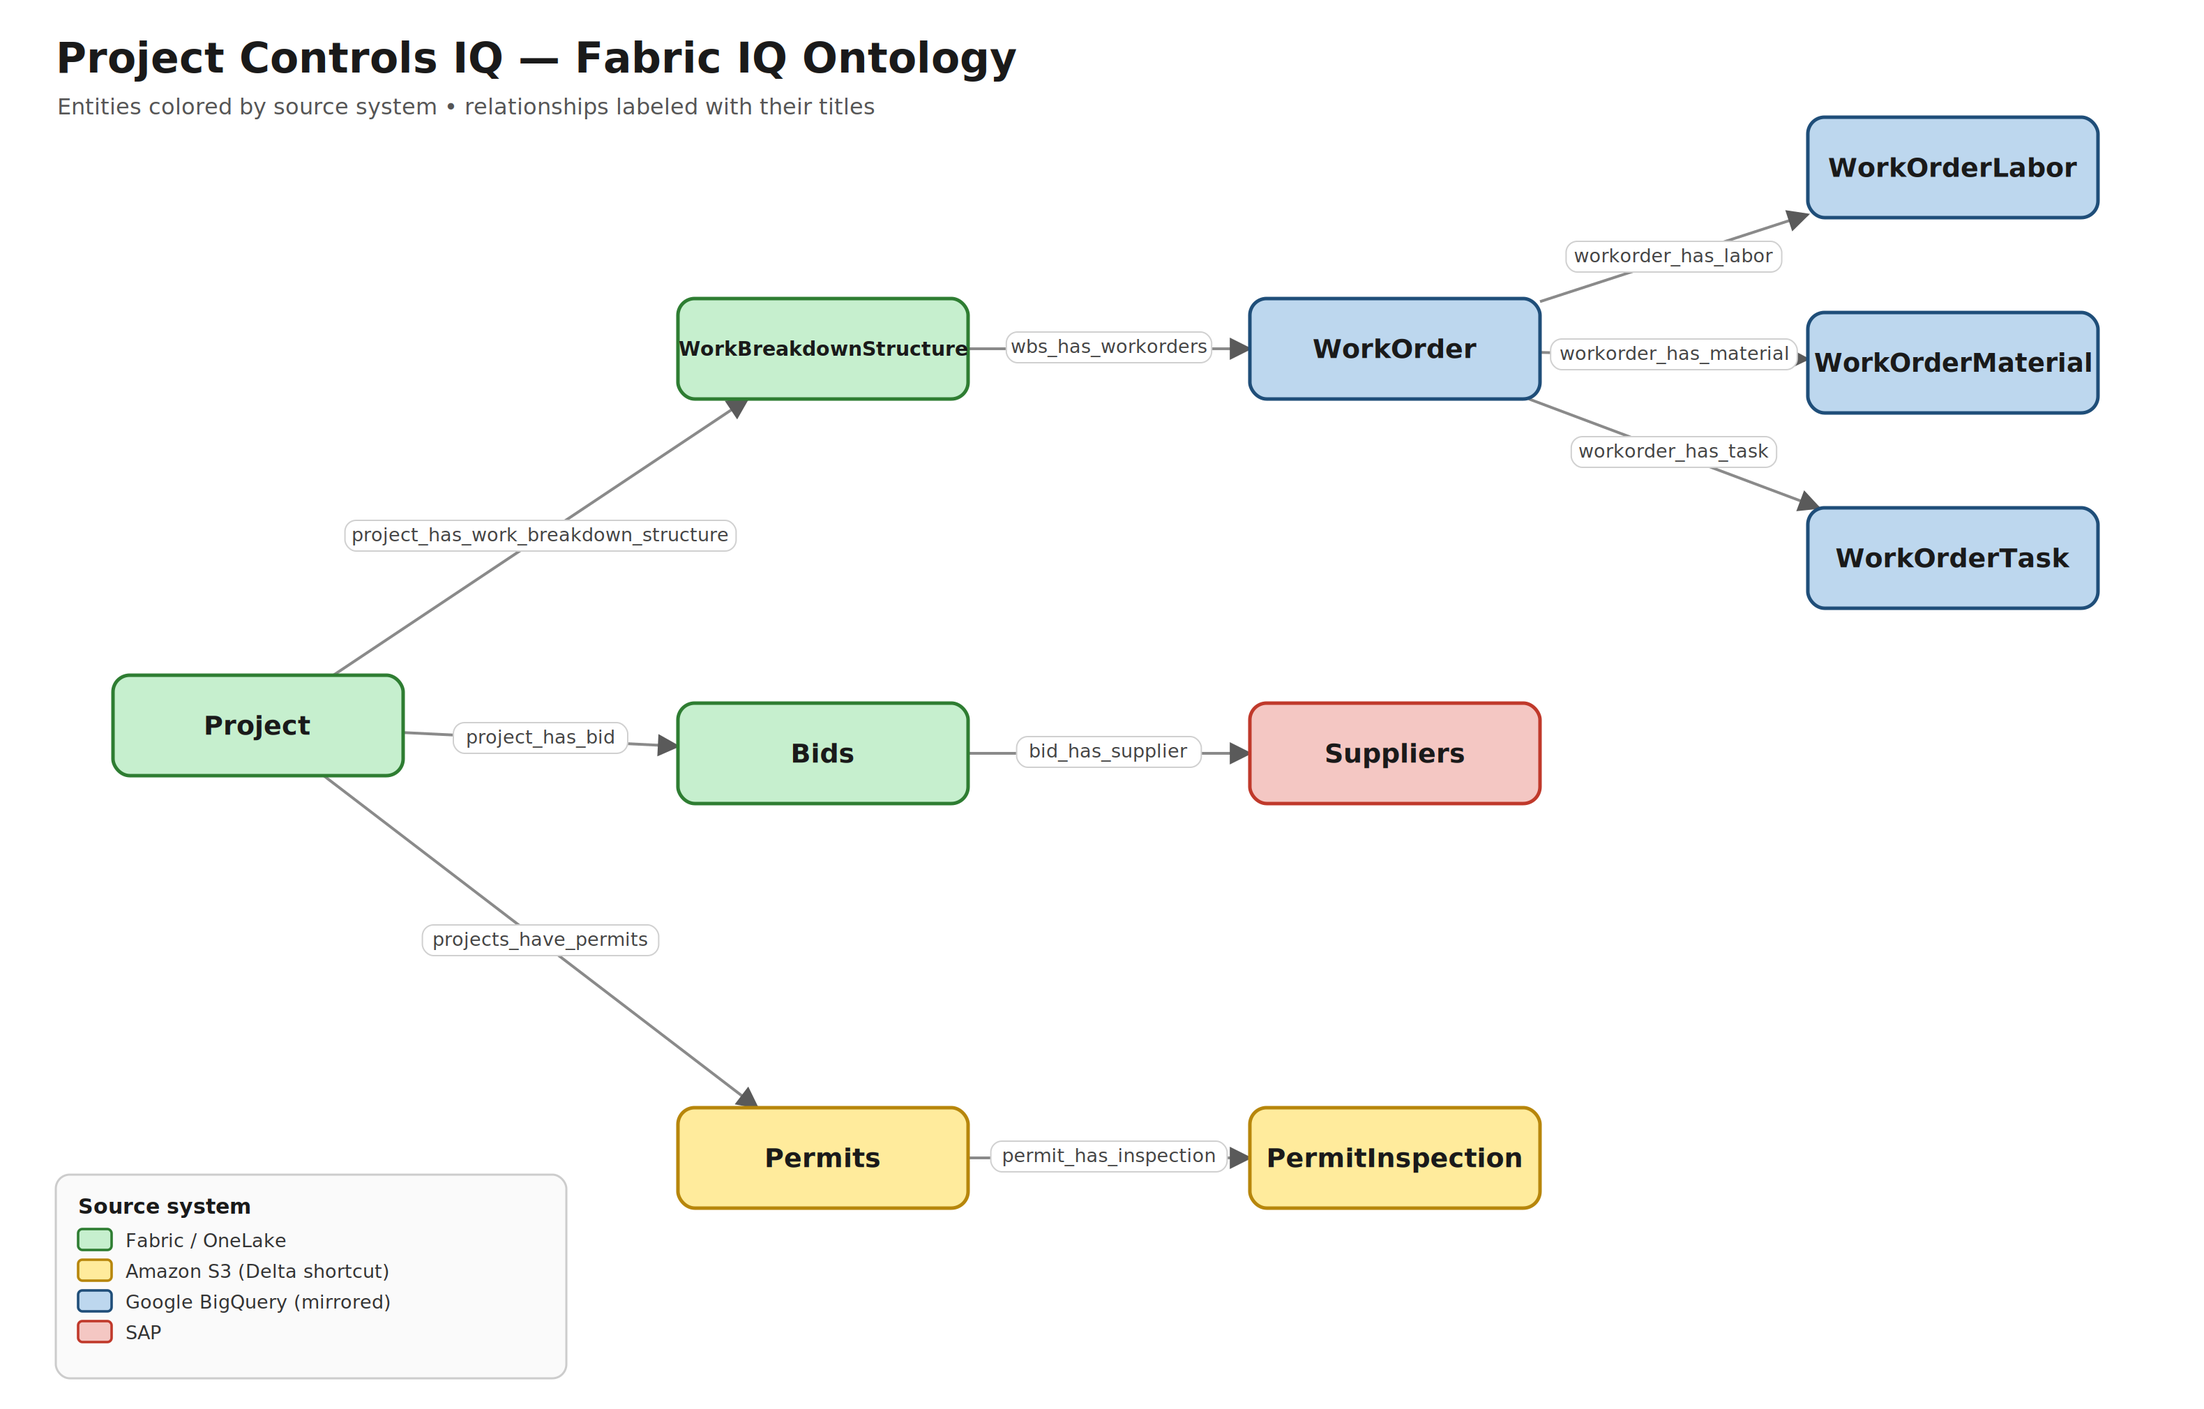
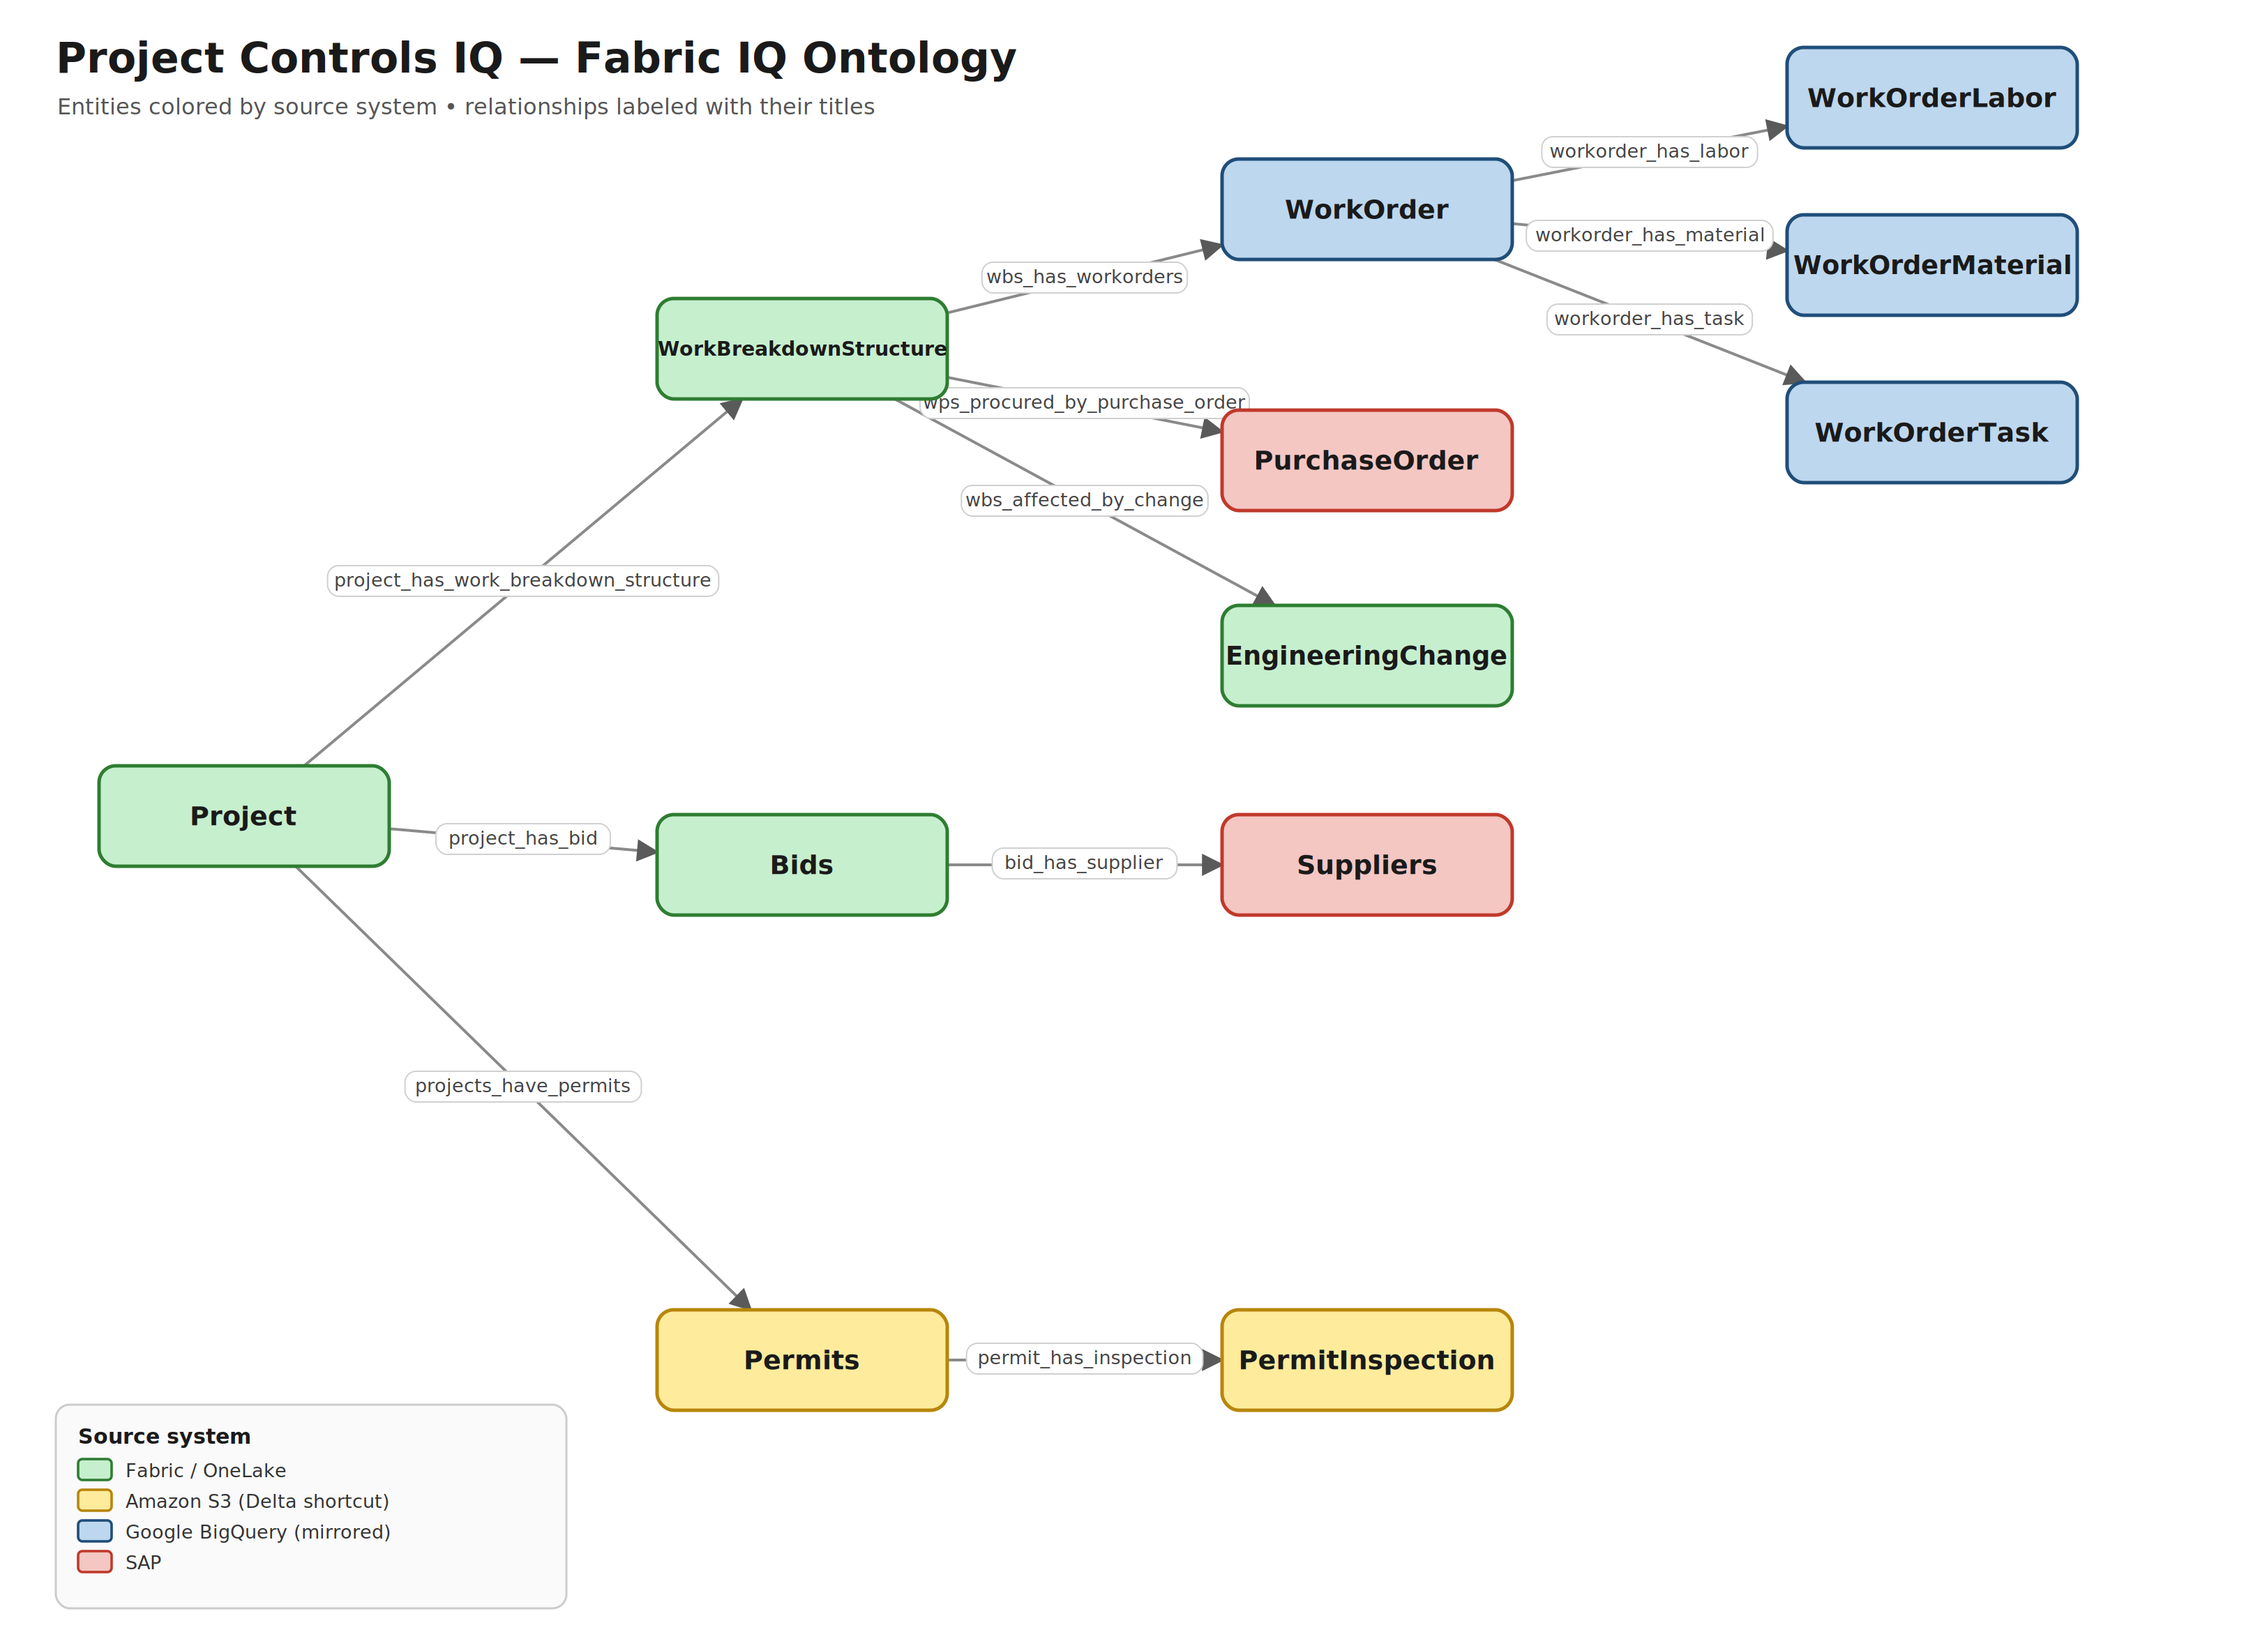
Add PurchaseOrder + EngineeringChange to ontology diagram
Reflect the two entities newly materialized in EPCOntology. PurchaseOrder is
color-coded SAP (red); EngineeringChange is Fabric/OneLake (green, non-SAP
engineering-change log). Both fan off WorkBreakdownStructure via their actual
relationship titles: wps_procured_by_purchase_order and wbs_affected_by_change.
Reflowed the layout and enlarged the canvas to fit the new nodes cleanly.

diff --git a/docs/diagrams/generate_ontology_diagram.py b/docs/diagrams/generate_ontology_diagram.py
@@ -26,16 +26,18 @@ HW, HH = BOX_W / 2, BOX_H / 2
 
 # ---- nodes: name -> (cx, cy, source) -----------------------------------------
 NODES = {
-    "Project":                (185, 520, "fabric"),
-    "WorkBreakdownStructure": (590, 250, "fabric"),
-    "Bids":                   (590, 540, "fabric"),
-    "Permits":                (590, 830, "s3"),
-    "WorkOrder":              (1000, 250, "bigquery"),
-    "Suppliers":              (1000, 540, "sap"),
-    "PermitInspection":       (1000, 830, "s3"),
-    "WorkOrderLabor":         (1400, 120, "bigquery"),
-    "WorkOrderMaterial":      (1400, 260, "bigquery"),
-    "WorkOrderTask":          (1400, 400, "bigquery"),
+    "Project":                (175, 585, "fabric"),
+    "WorkBreakdownStructure": (575, 250, "fabric"),
+    "Bids":                   (575, 620, "fabric"),
+    "Permits":                (575, 975, "s3"),
+    "WorkOrder":              (980, 150, "bigquery"),
+    "PurchaseOrder":          (980, 330, "sap"),
+    "EngineeringChange":      (980, 470, "fabric"),
+    "Suppliers":              (980, 620, "sap"),
+    "PermitInspection":       (980, 975, "s3"),
+    "WorkOrderLabor":         (1385, 70, "bigquery"),
+    "WorkOrderMaterial":      (1385, 190, "bigquery"),
+    "WorkOrderTask":          (1385, 310, "bigquery"),
 }
 
 # ---- edges: (source, target, label) ------------------------------------------
@@ -44,6 +46,8 @@ EDGES = [
     ("Project", "Bids", "project_has_bid"),
     ("Project", "Permits", "projects_have_permits"),
     ("WorkBreakdownStructure", "WorkOrder", "wbs_has_workorders"),
+    ("WorkBreakdownStructure", "PurchaseOrder", "wps_procured_by_purchase_order"),
+    ("WorkBreakdownStructure", "EngineeringChange", "wbs_affected_by_change"),
     ("WorkOrder", "WorkOrderLabor", "workorder_has_labor"),
     ("WorkOrder", "WorkOrderMaterial", "workorder_has_material"),
     ("WorkOrder", "WorkOrderTask", "workorder_has_task"),
@@ -51,7 +55,7 @@ EDGES = [
     ("Permits", "PermitInspection", "permit_has_inspection"),
 ]
 
-W, H = 1580, 1010
+W, H = 1620, 1175
 
 
 def border_point(cx, cy, tx, ty):
